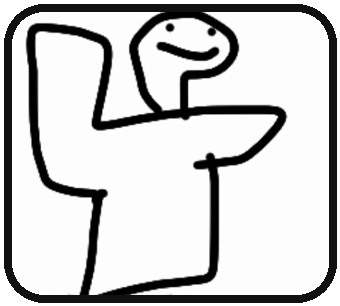
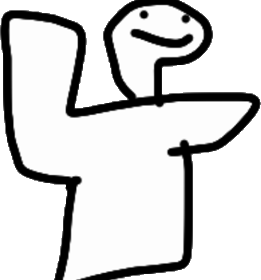
Floating Text runs give no coins or badges; Skibidi without the box; coin picture in Lava Ball
Claude-Session: https://claude.ai/code/session_01JXXCmvj4G2NLYQFfTa7xbX

diff --git a/index.html b/index.html
@@ -2272,7 +2272,7 @@ function tttRenderSetup() {
     ${hasDiamond ? '<span class="form-note">✓ yours! (Rich badge)</span>' : `<button type="button" class="btn small yellow" id="buyDiamond"><img class="coin-ico" src="images/ttt/coin.png" alt=""> 100 · BUY</button>`}`;
   $('#tttChars').innerHTML = list.map(c => {
     const open = tttUnlocked(c, P);
-    const label = c.creatorOnly ? (isAdmin() ? 'creator only' : '✨ special') : open ? '' : c.price ? `<img class="coin-ico" src="images/ttt/coin.png" alt=""> ${c.price} · BUY` : '🔒 ' + esc(c.how);
+    const label = c.creatorOnly ? (isAdmin() ? 'creator only' : '✨ just for fun: no coins or badges') : open ? '' : c.price ? `<img class="coin-ico" src="images/ttt/coin.png" alt=""> ${c.price} · BUY` : '🔒 ' + esc(c.how);
     return `<button type="button" data-climber="${c.id}" aria-pressed="${open && c.id === TTT.pick.climber}"
       class="${c.creatorOnly ? (isAdmin() ? 'creator-only' : 'climber-special') : ''} ${open ? '' : 'locked'} ${!open && c.price ? 'shop' : ''}">
       <img src="${TTT.src(c.id)}" alt="">${esc(c.name)}${label ? `<small>${label}</small>` : ''}</button>`;
@@ -2444,20 +2444,24 @@ function tttEnd(G, won) {
   G.state = 'over';
   const h = Math.floor(won ? G.mode.goal : G.alt);
   const P = tttProgress(), before = TTT.climbers.filter(c => !c.creatorOnly && !c.price && tttUnlocked(c, P)).map(c => c.id);
-  P.best[G.mode.id] = Math.max(P.best[G.mode.id] || 0, h);
-  const bonus = won ? (TTT.winCoins[G.mode.id] || 0) : 0;
-  if (won) P.beat[G.mode.id] = true;
-  P.coins += G.coinCount + bonus;
-  P.orbs = (P.orbs || 0) + (G.orbsGot || 0);         // for the Powered Up badge
-  P.knocked = (P.knocked || 0) + (G.knocks || 0);    // for the Pole Wrecker badge
-  tttSaveProgress(P);
+  // Floating Text (given by the creator) is just for fun: those runs give no coins, scores, unlocks or badge progress
+  const counts = !(G.climber === 'floating-text' && !isAdmin());
+  const bonus = won && counts ? (TTT.winCoins[G.mode.id] || 0) : 0;
+  if (counts) {
+    P.best[G.mode.id] = Math.max(P.best[G.mode.id] || 0, h);
+    if (won) P.beat[G.mode.id] = true;
+    P.coins += G.coinCount + bonus;
+    P.orbs = (P.orbs || 0) + (G.orbsGot || 0);         // for the Powered Up badge
+    P.knocked = (P.knocked || 0) + (G.knocks || 0);    // for the Pole Wrecker badge
+    tttSaveProgress(P);
+  }
   const fresh = TTT.climbers.filter(c => !c.creatorOnly && !c.price && tttUnlocked(c, P) && !before.includes(c.id)).map(c => c.name);
   const who = TTT.climbers.find(c => c.id === G.climber).name;
-  const coinLine = (G.coinCount || bonus) ? ` <img class="coin-ico" src="images/ttt/coin.png" alt=""> +${G.coinCount + bonus} coin${G.coinCount + bonus === 1 ? '' : 's'}${bonus ? ` (${bonus} for beating ${G.mode.name})` : ''}.` : '';
+  const coinLine = !counts ? ' ✨ Floating Text runs are just for fun: no coins, scores or badges.' : (G.coinCount || bonus) ? ` <img class="coin-ico" src="images/ttt/coin.png" alt=""> +${G.coinCount + bonus} coin${G.coinCount + bonus === 1 ? '' : 's'}${bonus ? ` (${bonus} for beating ${G.mode.name})` : ''}.` : '';
   const unlockLine = fresh.length && !isAdmin() ? ` 🔓 UNLOCKED: ${fresh.join(', ')}!` : '';
   $('#tttEndTitle').textContent = won ? 'YOU MADE IT TO THE TOP!' : 'YOU FELL OFF!';
   $('#tttEndText').innerHTML = (won ? `${esc(who)} climbed all ${h.toLocaleString()} heights on ${G.mode.name}!`
-    : `${esc(who)} climbed ${h.toLocaleString()}${G.mode.goal === Infinity ? '' : ' of ' + G.mode.goal.toLocaleString()} heights. Best: ${P.best[G.mode.id].toLocaleString()}.`) + coinLine + unlockLine;
+    : `${esc(who)} climbed ${h.toLocaleString()}${G.mode.goal === Infinity ? '' : ' of ' + G.mode.goal.toLocaleString()} heights.${counts ? ` Best: ${(P.best[G.mode.id] || 0).toLocaleString()}.` : ''}`) + coinLine + unlockLine;
   $('#tttEnd').hidden = false;
   tttDraw(G);
 }
@@ -3062,7 +3066,9 @@ function lavaDraw(time) {
   g.fillStyle = 'rgba(20,10,6,.62)'; g.beginPath(); g.roundRect ? g.roundRect(6, ty - 18, 190, (!L.me.alive && L.state === 'play') ? 86 : 66, 10) : g.rect(6, ty - 18, 190, 66); g.fill(); g.fillStyle = '#fff';
   g.fillText(`👥 ${left} LEFT`, tx, ty);
   g.fillText(`🧱 WALL IN ${Math.ceil(L.nextShrink)}`, tx, ty + 20);
-  g.fillText(`💥 ${L.me.kills}   🪙 ${L.me.coins}`, tx, ty + 40);
+  g.fillText(`💥 ${L.me.kills}`, tx, ty + 40);
+  { const hc = lavaImg('images/ttt/coin.png'), kx = tx + g.measureText(`💥 ${L.me.kills}`).width + 14;
+    if (hc.complete && hc.naturalWidth) g.drawImage(hc, kx, ty + 26, 18, 18); g.fillText(String(L.me.coins), kx + 24, ty + 40); }
   if (!L.me.alive && L.state === 'play') { g.fillStyle = '#ffe14d'; g.fillText(`👀 WATCHING ${L.watch.label}`, tx, ty + 60); }
   if (L.msgT > 0) { g.textAlign = 'center'; g.font = `900 ${Math.min(42, W * 0.07)}px system-ui, sans-serif`; g.lineWidth = 6; g.strokeStyle = '#111';
     g.globalAlpha = Math.min(1, L.msgT * 2); g.strokeText(L.msg, W / 2, H * 0.2); g.fillStyle = '#ffe14d'; g.fillText(L.msg, W / 2, H * 0.2); g.globalAlpha = 1; }
